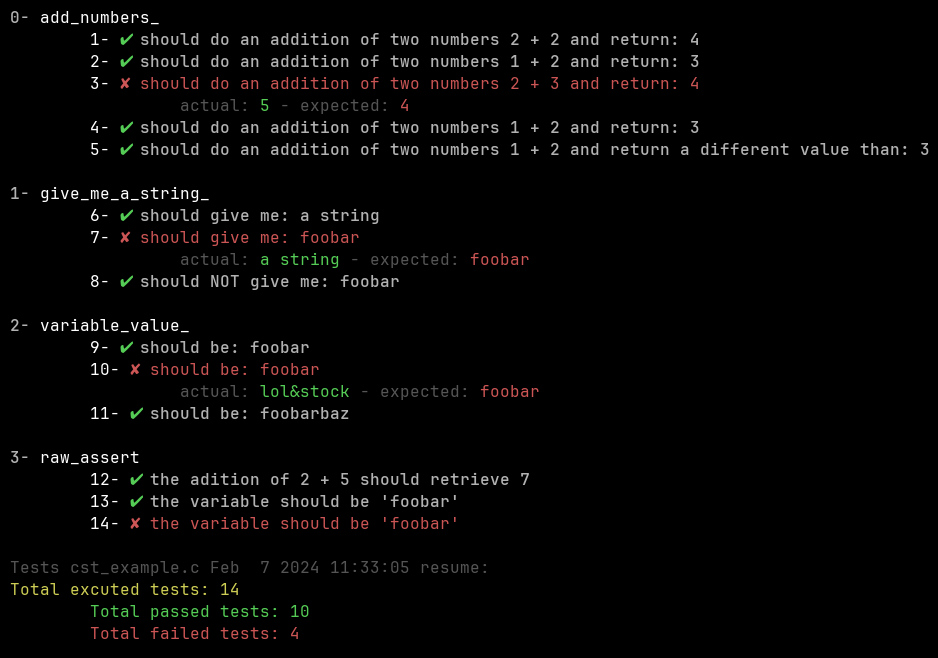
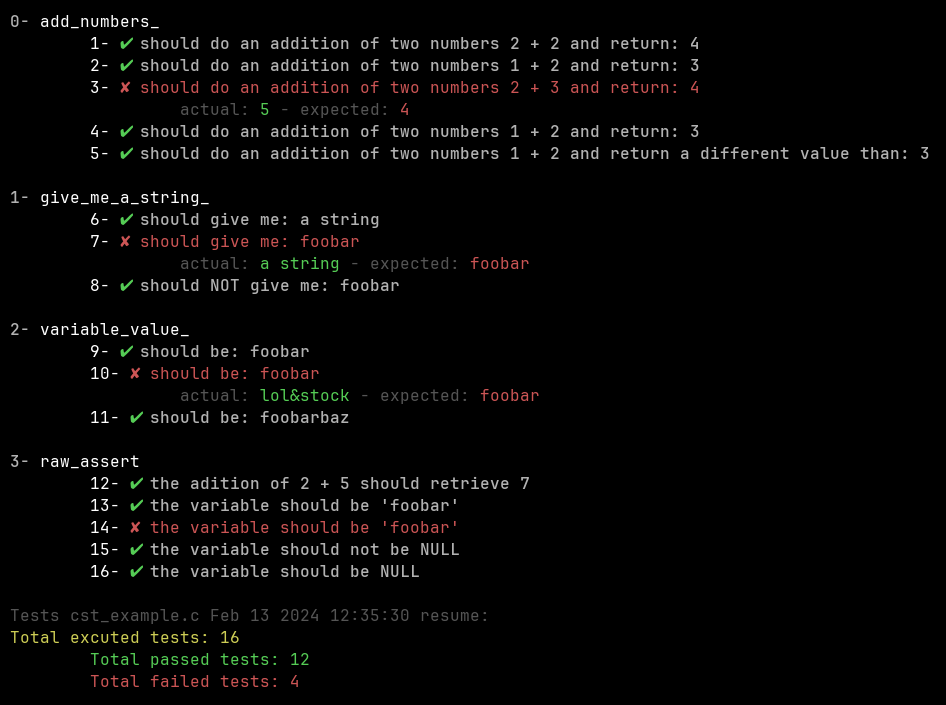
getting ready for releasing this thing adding an example for NULL assertions updating the image

diff --git a/examples/tests/cst_example.c b/examples/tests/cst_example.c
@@ -7,7 +7,6 @@
 #include "./../src/dep.h"
 
 // the tests
-
 static void add_numbers_()
 {
         // here you do the assert in this case for a integer
@@ -65,11 +64,16 @@ static void raw_assert()
 
         mod_var_value("foobar");
         cst_a("the variable should be 'foobar'", strcmp(variable, "foobar") == 0);
-
+        
         // this will fail
         cst_a("the variable should be 'foobar'", strcmp(variable, "foobarlol") == 0);
 
+        // NULL values
+        cst_a("the variable should not be NULL", variable != NULL);
+        mod_var_value(NULL);
+        cst_a("the variable should be NULL", variable == NULL);
 }
+
 // bundle all your tests could be a good idea
 static void all_the_tests()
 {

diff --git a/README.md b/README.md
@@ -1,6 +1,6 @@
 <div align="center">
 
-:wheel: Reinventing The Wheel group presents :wheel:
+:ferris_wheel: Reinventing The Wheel group presents :ferris_wheel:
 
 C Simple Test
 
@@ -29,8 +29,54 @@ For a more elaborated, but still non-sense, answer check [Long Answer](#long-ans
 
 ## Basic Syntax<a name="basic-syntax"/>
 
+### integer and string assertion
 
+For an integer use **cst_i** for a string **cst_s** or the not equal for both **cst_i_ne** and **cst_s_ne**.
 
+These 4 functions expects 3 arguments:
+
+1. function_to_test()
+2. "assertion text"
+3. expected_value
+
+* assert an integer
+
+```c
+        //             |-> the function to test or actual value 
+        //             |                                |-> text for the assertion
+        //             |                                |                                 |-> the expected value
+        //             |                                |                                 |    
+        cst_i(add_numbers(2, 2), "should do an addition of two numbers 2 + 2 and return", 4); 
+                                 
+        // a value different than
+        cst_i_ne(add_numbers(1, 1), "should do an addition of two numbers 1 + 2 and return a different value than", 3);
+```
+
+* assert a string
+
+```c
+        // assert a string 
+        cst_s(give_me_a_string(), "should give me", "a string");
+
+        // string not equal
+        cst_s_ne(give_me_a_string(), "should NOT give me", "foobar");
+```
+
+### raw or generic assert
+
+Use the **cst_a** function that expects two arguments:
+
+1. "text for the assertion"
+2. a condition
+
+* raw assert
+
+```c
+        //                      |-> text for the assertion
+        //                      |                                          |-> the condition to test
+        //                      |                                          |
+        cst_a("the adition of 2 + 5 should retrieve 7", add_numbers(2, 5) == 7);
+```
 
 ## Output example<a name"output-example"/>
 
@@ -40,12 +86,14 @@ For a more elaborated, but still non-sense, answer check [Long Answer](#long-ans
 
 ## Usage
 
+On your test file, include **cst.h** and the header files from your code that has the functions that you want to test. At the test file, call all the tests and then call the **cst_results()** function.
+
 Under the **examples** directory you'll find the whole setup and file structure and basic usage.
 
 The structure for testing could be something like this:
 
 ```
-examples/
+my_code/
 ├── README.md
 ├── src
 │   ├── dep.c
@@ -53,9 +101,25 @@ examples/
 │   └── main.c
 └── tests
     ├── cst_example.c
+    ├── cst.c
+    ├── cst.h
     └── Makefile
 ```
 
+Put **cst.c** and **cst.h** somewhere (on test folder is fine, I did not in order to not duplicate files) and point to the **cst.c** on your **Makefile** and the c files from your tests. Something like:
+
+`$(CC) $(CCFLAGS) -o $@ $(SRC) ./../../cst.c cst_example.c $(LIBS)`
+
+ Remember to not include your **main.c** file from your source code. This would be usefull:
+
+`SRC := $(shell find ./../src/ -type f -name '*.c' ! -name 'main.c')` 
+
+**tip:** reusing the **Makefile** at *examples/tests/* and modifying the **cst* files location and tests c files should do the work.
+
+Then go to the *tests* fodler and run:
+
+`$ make clean && make`
+ 
 ## Long Answer<a name="long-answer"/>
 
 The **More long answer:** For a personal c project, I face the Eternal Return or Eternal Recurrence of the leak of test.
